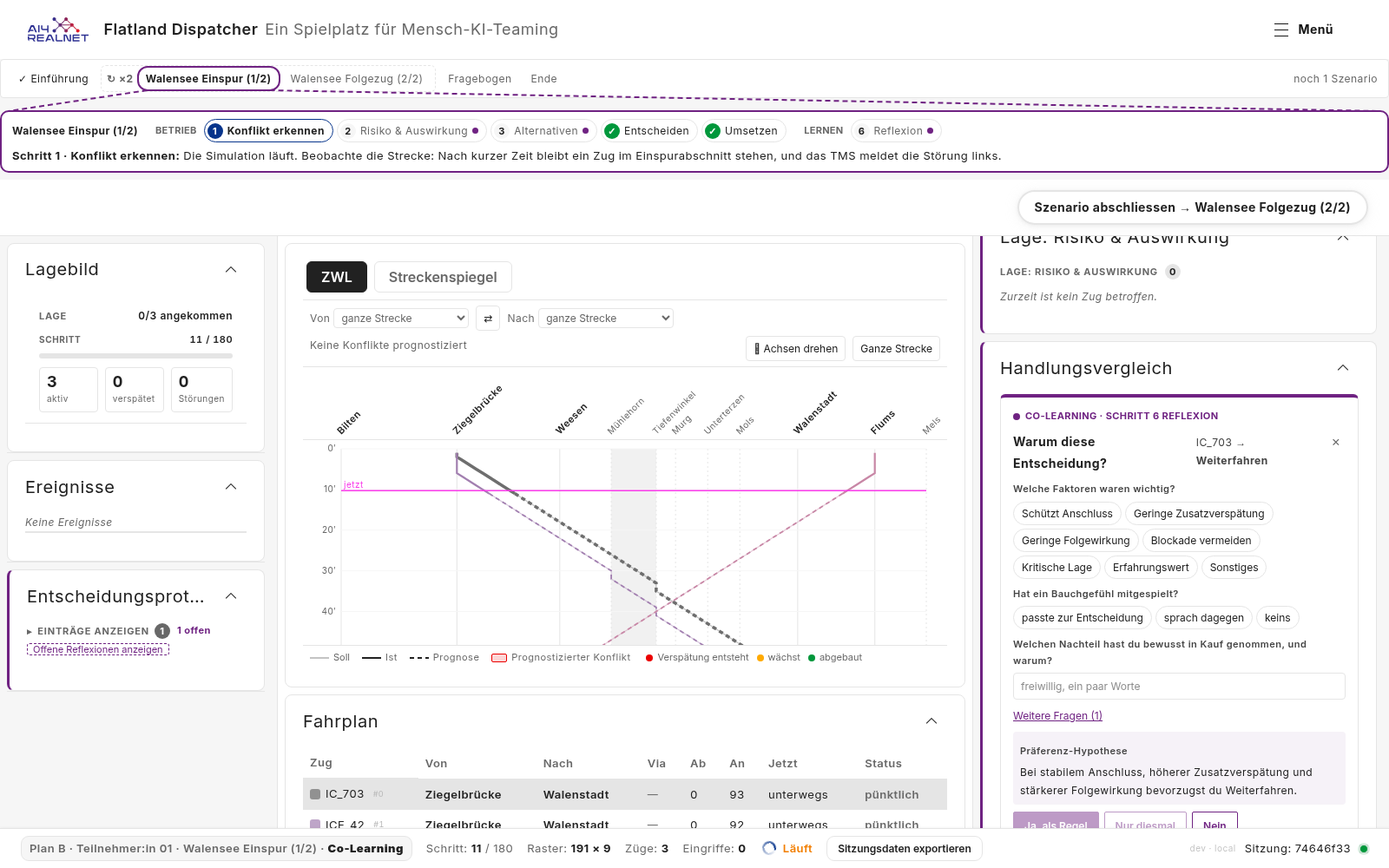
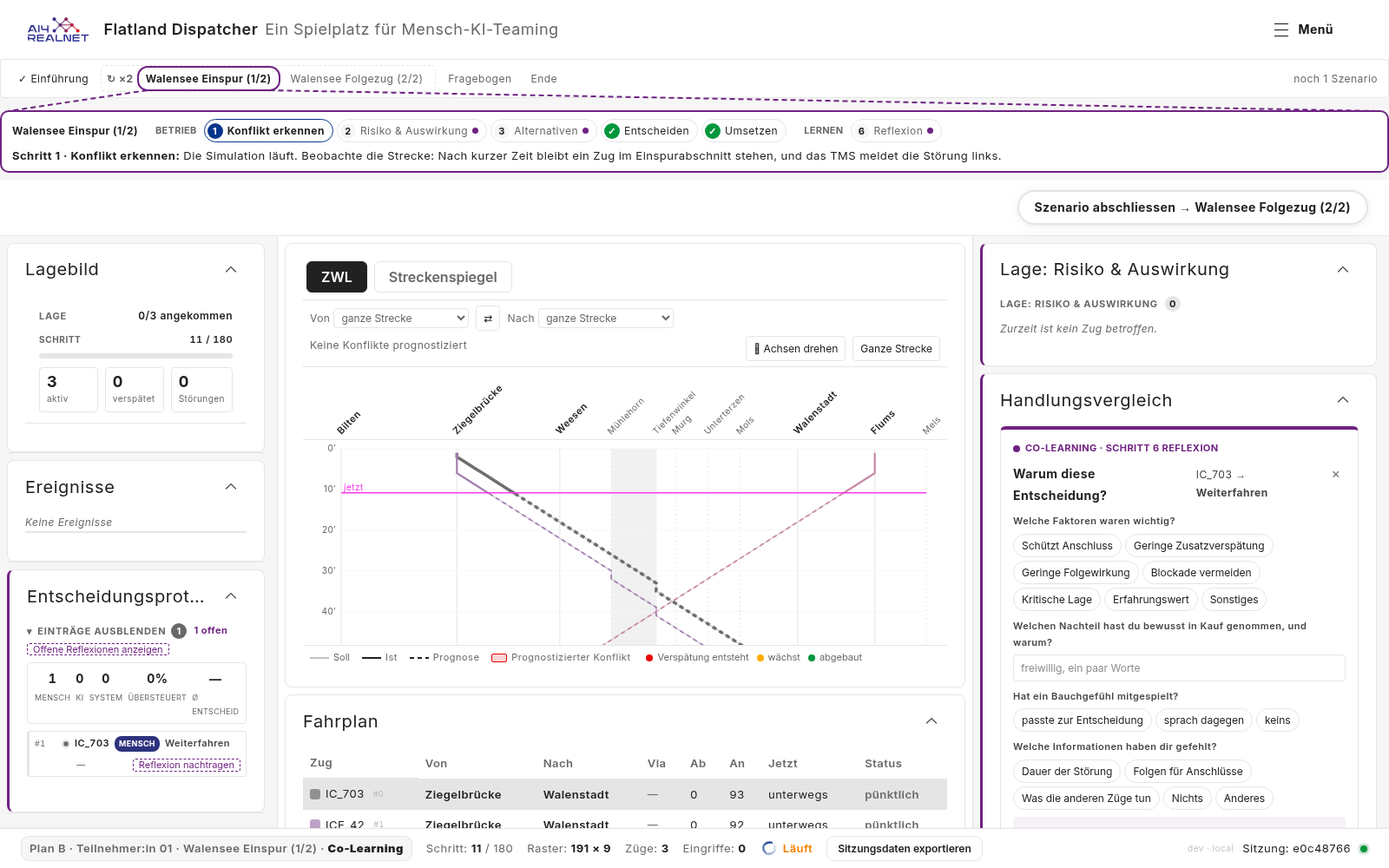
docs(plans): retake the after pictures of #160 and record S14-S20 as built.

diff --git a/docs/plans/reflection-inline.md b/docs/plans/reflection-inline.md
@@ -4,8 +4,8 @@
 > f977f7c, S6 as 1221529; findings 1, 2, 4 and 13-17 are fixed. S8-S11 (findings
 > 21, 12 with 10, 20 and 3) are fixed in 37659fd, d1e8adc, cadade1 and c491fb6; the PR
 > comments 23 and 24 in S12 and S13, b484221 and a16424e (Q12; Q1 revisited:
-> Plan B's log starts open, D4). 5-9, 11, 18 and 22 are planned as S14-S20
-> (§7.1), 19 is a follow-up (§9).
+> Plan B's log starts open, D4); 5-9, 11, 18 and 22 in S14-S20, 1e6151b to
+> ba64e47 (§7.1). 19 is a follow-up (§9).
 > Based on `main` 7eef0cb (rebased on 2026-11-06 from 1e33088,
 > where the before pictures were taken), which has #150 ([PR #172](https://github.com/flatland-association/flatland-ui-hub/pull/172)):
 > its decision log toggle covers what this plan first designed for opening
@@ -54,6 +54,14 @@
 | — | Revise D4 by the PR comment of 2026-11-06 (Q1 revisited) and plan S13 | docs | low | ce89d54 |
 | S12, 23 | The reflection shows all its questions, in every tour that asks for reasons; «Weitere Fragen» goes | fix | medium | b484221 |
 | S13, 24 | Plan B's decision log starts open, as in every other setup already | feat | medium | a16424e |
+| — | Plan S14-S20 for the open code review findings | docs | low | f4b89f7 |
+| S14, 5 | The message after a refused finish counts the missing reflections down as they are answered | bug | medium | 1e6151b |
+| S15, 9 | A new reflection scrolls only its panel, not the whole right column | robustness | low | b7fcacf |
+| S16, 22 | The working screen logs which centre tab is shown, so ZWL and Streckenspiegel differ | robustness | low | c231013 |
+| S17, 7, 11 | One check of open reflections before finishing, a spec for the toolbar's finish gate, and one tour stub for the specs | design | low | 215055b |
+| S18, 6 | A spec that every tour asking for reasons runs a layout with the decision panel | test-coverage | low | c566b8f |
+| S19, 8 | The code names the reopen case that drops typed text | docs | low | 6aed56c |
+| S20, 18 | Code comments point at the plan's sections and decisions, not at the issue or its findings | docs | low | ba64e47 |
 
 S1-S5 and S7 share files and hunks, so they went in as one commit, f977f7c,
 with the message "feat(reflection): ask the reflection in «Handlungsvergleich»
@@ -68,18 +76,10 @@ reflection is shown."
 
 #### Remaining
 
-Open steps first, then open findings (§9), then follow-ups that are not in
-this PR (§1.3).
+No open steps or findings; the follow-ups are not in this PR (§1.3).
 
 | ID | Description | Category | Severity | Commit message |
 |---|---|---|---|---|
-| S14, 5 | The message after a refused finish counts the missing reflections down as they are answered | bug | medium | fix(reflection): count the missing reflections live after a refused finish. |
-| S15, 9 | A new reflection scrolls only its panel, not the whole right column | robustness | low | fix(proposal-compare): scroll only the panel when a reflection appears. |
-| S16, 22 | The working screen logs which centre tab is shown, so ZWL and Streckenspiegel differ | robustness | low | fix(view-tracker): log which centre tab is shown. |
-| S17, 7, 11 | One check of open reflections before finishing, a spec for the toolbar's finish gate, and one tour stub for the specs | design | low | refactor(tour): check open reflections in one place before finishing. |
-| S18, 6 | A spec that every tour asking for reasons runs a layout with the decision panel | test-coverage | low | test(layout): assert that every reasonDialog layout places the decision panel. |
-| S19, 8 | The code names the reopen case that drops typed text | docs | low | docs(reflection): name the reopen case that drops typed text. |
-| S20, 18 | Code comments point at the plan's sections and decisions, not at the issue or its findings | docs | low | docs(reflection): point code comments at the plan's sections, not at the issue or its findings. |
 | — | Follow-up: keep a typed but unsent reflection when switching to another one | feat | low | — |
 | — | Follow-up: require a reason chip for «Nein» too (decided against for now) | feat | low | — |
 | — | Follow-up: show open reflections in a replay | feat | low | — |
@@ -828,22 +828,22 @@ specs cover the first three.
 Each step passes the CI checks on its own. S1-S5 and S7 went in as one
 commit (Carried out). Finding 13's fix is in S3, which removes the pause.
 Findings 21, 12 (with 10), 20 and 3 are fixed in S8-S11, 23 and 24 in S12
-and S13; 5-9, 11, 18 and 22 are planned in §7.1, 19 is a follow-up.
+and S13, 5-9, 11, 18 and 22 in S14-S20 (§7.1); 19 is a follow-up.
 
-### 7.1 Refactorings and cleanup (in progress)
+### 7.1 Refactorings and cleanup ✅
 
 The open code review findings, one commit each; fixes first, then the
 refactoring, then tests and comments.
 
 | Done | ID | Finding | Change | Tests |
 |---|---|---|---|---|
-|  | S14 | 5 | `SessionStore.reflectionsMissing` becomes a `computed`: how many of the reflections open at the refused finish are still open (`_refusedSeqs`). It counts down as they are answered, is 0 once all are, and a decision taken after the refusal does not bring the message back. The effect that zeroed it goes. | Store spec: refused with three open, two answered, the count says 1 (it said 3). The existing refusal and reset specs. |
-|  | S15 | 9 | `ProposalCompareComponent` scrolls the panel body (`.layout-panel-shell__body--scroll`) to the reflection, only when it is out of view, instead of `scrollIntoView`, which moved every scrolling ancestor. The timer is cleared in the effect's cleanup, so it cannot fire after the panel is gone. Outside a panel shell nothing scrolls. | Spec of the exported helper: the panel body scrolls, the column around it does not. |
-|  | S16 | 22 | `SessionStore.centerView`, set by `ViewTabsComponent` from its active tab (`zug-weg-diagramm`, `flatland-map`, …). The working screen `session` gets `detail.centerView` while it is set; `centerTab` stays as it is, since the replay reads it. `docs/experiment-logging.md` lists the field. | View tracker spec: the tab id is logged, and switching tabs writes a new screen entry. The existing specs, which have no tab, are unchanged. |
-|  | S17 | 7, 11 | `TourContextService.refuseFinish()`: in a tour that asks for reasons, refuse while reflections are open. `finishDemoMode()` and the guide's `endShift()` call it; its comment names the ways to end that need no gate (Director's «Schicht beenden», `finishExperiment` after the leg). The specs share `provideTourContextStub(reasonDialog)` in `src/app/testing/`. | App spec: `finishDemoMode()` is refused with an open reflection and goes on once it is answered. The guide, log and decision panel specs on the shared stub. |
-|  | S18 | 6 | New spec: every tour and study condition whose briefing sets `reasonDialog` pins a layout with the decision panel (`proposal-compare`) and does not run Director, so «Reflexion nachtragen» always has a place (§1.2). | The new spec. |
-|  | S19 | 8 | The comments on `openReflections` and `reopenRationale` say that a new decision never replaces the reflection being typed, but reopening another one from the log does, and the prompt then starts empty (§1.1, follow-up in §1.3). No `TODO`: the follow-up has no issue yet. | None (comments only); the existing specs. |
-|  | S20 | 18 | Code comments, specs and the screenshot scripts name the plan's sections and decisions (§4.1, D3, D16) instead of #160 or a finding number, and say in words what changed ("before the reflection moved into the panel"). | None (comments only); the existing specs. |
+| ✅ | S14 | 5 | `SessionStore.reflectionsMissing` becomes a `computed`: how many of the reflections open at the refused finish are still open (`_refusedSeqs`). It counts down as they are answered, is 0 once all are, and a decision taken after the refusal does not bring the message back. The effect that zeroed it goes. | Store spec: refused with three open, two answered, the count says 1 (it said 3). The existing refusal and reset specs. |
+| ✅ | S15 | 9 | `ProposalCompareComponent` scrolls the panel body (`.layout-panel-shell__body--scroll`) to the reflection, only when it is out of view, instead of `scrollIntoView`, which moved every scrolling ancestor. The timer is cleared in the effect's cleanup, so it cannot fire after the panel is gone. Outside a panel shell nothing scrolls. | Spec of the exported helper: the panel body scrolls, the column around it does not. |
+| ✅ | S16 | 22 | `SessionStore.centerView`, set by `ViewTabsComponent` from its active tab (`zug-weg-diagramm`, `flatland-map`, …). The working screen `session` gets `detail.centerView` while it is set; `centerTab` stays as it is, since the replay reads it. `docs/experiment-logging.md` lists the field. | View tracker spec: the tab id is logged, and switching tabs writes a new screen entry. The existing specs, which have no tab, are unchanged. |
+| ✅ | S17 | 7, 11 | `TourContextService.refuseFinish()`: in a tour that asks for reasons, refuse while reflections are open. `finishDemoMode()` and the guide's `endShift()` call it; its comment names the ways to end that need no gate (Director's «Schicht beenden», `finishExperiment` after the leg). The specs share `provideTourContextStub(reasonDialog)` in `src/app/testing/`. | App spec: `finishDemoMode()` is refused with an open reflection and goes on once it is answered. The guide, log and decision panel specs on the shared stub. |
+| ✅ | S18 | 6 | New spec: every tour and study condition whose briefing sets `reasonDialog` pins a layout with the decision panel (`proposal-compare`) and does not run Director, so «Reflexion nachtragen» always has a place (§1.2). | The new spec. |
+| ✅ | S19 | 8 | The comments on `openReflections` and `reopenRationale` say that a new decision never replaces the reflection being typed, but reopening another one from the log does, and the prompt then starts empty (§1.1, follow-up in §1.3). No `TODO`: the follow-up has no issue yet. | None (comments only); the existing specs. |
+| ✅ | S20 | 18 | Code comments, specs and the screenshot scripts name the plan's sections and decisions (§4.1, D3, D16) instead of #160 or a finding number, and say in words what changed ("before the reflection moved into the panel"). | None (comments only); the existing specs. |
 
 ## 8. Open questions
 
@@ -1030,30 +1030,30 @@ not resolved on GitHub yet.
 | ✅ | 2 | code review | bug | high | `frontend/src/app/app.component.ts:1283`, `frontend/src/app/features/tour-debrief/tour-debrief.component.ts:268`: in a tour that is not an experiment run (the interview tour, gated since Q4), the episode ending on its own opens the debrief, which hides the panels (`is-behind`), and its way back is off once `episodeDone`. With a reflection still open, the finish is refused and the reflection can no longer be reached: the tour cannot be finished. Plan B is not affected (no debrief between legs while `running`). Fix: show the open reflection in the debrief, or let the debrief's finish open the shift again while reflections are open. Fixed in f977f7c, option a): `AppComponent.shiftScreenOpen()` stays closed while `reflectionsMissing() > 0`, so a refused finish brings the working screen back; the debrief opens again once all are answered. No spec: `AppComponent` has none for the shift screen (finding 11). | feat(reflection): ask the reflection in «Handlungsvergleich» without pausing the run. |
 | ✅ | 3 | code review | design | medium | `frontend/src/app/core/interaction-log/view-tracker.service.ts:68-70`, `frontend/src/app/core/interaction-log/click-log.service.ts:72`: a reflection that is shown counts as a screen of its own, `reflection`, in every mode and for all three kinds (`rationale`, `co-learning`, `strategy`). Since #160 none of them is an overlay: each sits in a panel while the participant goes on working. The screen log books that time as "reflection" and drops map/Marey switches and guide steps, every click made meanwhile carries `view: 'reflection'`, and the replay misses those switches. Outside the reason tours this was so on `main` too. Proposal: the working screen `session` with `detail.reflection = <kind>`, everywhere (details and tables below). Changes the logs of every condition. Fixed in c491fb6 (S11): `session` with `detail.reflection`; checked with the Plan B recording. | fix(view-tracker): log a shown reflection as part of the working screen. |
 | ✅ | 4 | code review | design | medium | `frontend/src/app/core/session.store.ts:1403`: the queue applies in every session, not only in `reasonDialog` tours. With `rationale-capture` (Recommendation, the Co-Learning reflection panel) a new decision no longer replaces the shown prompt, and closing one shows an older one out of context. The plan says these stay unchanged (§1.3). Fix: keep the old replace-and-forget behaviour unless the tour asks for reasons, e.g. `_askReflection` taking a `queue` flag set by a store signal the app syncs from `tour.reasonDialog()`. Fixed in f977f7c: `SessionStore.queueReflections`, set by `AppComponent` from `tour.reasonDialog()`; off, a new decision replaces the shown one and × drops it, as on `main`. | feat(reflection): ask the reflection in «Handlungsvergleich» without pausing the run. |
+| ✅ | 5 | code review | bug | medium | `frontend/src/app/core/session.store.ts:1379,1389`, `frontend/src/app/features/toolbar/toolbar.component.html:101`: `reflectionsMissing` freezes the count at the refused click, so after answering two of three the message still says 3. It is also stored state with an effect only to zero it. Fix: a `finishRefused` flag and `computed(() => finishRefused() ? openReflections().length : 0)`, no effect. Fixed in 1e6151b (S14): `reflectionsMissing` is a `computed` over the reflections open at the refusal, with a spec. | fix(reflection): count the missing reflections live after a refused finish. |
+| ✅ | 6 | code review | robustness | low | `frontend/src/app/features/proposal-compare/proposal-compare.component.ts:93`: a reflection reopened from the log only shows in the decision panel, and not in Director. After a mode switch, or with the panel collapsed or absent, «Reflexion nachtragen» does nothing visible while finishing is refused. Covered by §1.2's assumptions (Co-Learning only, the panel is in the layout), which are not checked in code. Proposal: keep the assumption, and expand nothing (D10); add a test that the `reasonDialog` layouts place the panel. Fixed in c566b8f (S18): `core/demo/reason-tours.spec.ts` checks every reason tour's layout. | test(layout): assert that every reasonDialog layout places the decision panel. |
+| ✅ | 7 | code review | design | low | `frontend/src/app/app.component.ts:1283`, `frontend/src/app/features/tour-guide/tour-guide.component.ts:77`: the finish guard is repeated in the two callers. Other ways to end a shift (`director-directive`'s «Schicht beenden», `finishExperiment`) do not check it; today they run only in Director or after the leg is finished. Proposal: one `canFinish()` on `TourContextService`, used by both, with a comment naming the paths that need no gate. Fixed in 215055b (S17): `TourContextService.refuseFinish()`, used by both, with a comment on the paths that need no gate. | refactor(tour): check open reflections in one place before finishing. |
+| ✅ | 8 | code review | robustness | low | `frontend/src/app/core/session.store.ts:1356,1369`: `reopenRationale(seq)` replaces a reflection being typed, and the prompt resets, contradicting the comment that typed text is never replaced. Listed in §1.1 as a limitation, without the `TODO` it promises. Fix: add the `TODO` and say "a new decision never replaces" in the comment. Fixed in 6aed56c (S19): the comments on `openReflections` and `reopenRationale` name the case; no `TODO`, as the follow-up in §1.3 has no issue yet. | docs(reflection): name the reopen case that drops typed text. |
+| ✅ | 9 | code review | robustness | low | `frontend/src/app/features/proposal-compare/proposal-compare.component.ts:133`: `scrollIntoView` scrolls every scrolling ancestor, so a new reflection can move the right column (seen in the after screenshots: the panel above loses its title), and the uncleared `setTimeout` can fire after the panel is destroyed. Fix: scroll only the panel's own body, or drop the scroll. Fixed in b7fcacf (S15): `scrollIntoPanel` scrolls the panel body only, and the timer is cleared in the effect's cleanup. | fix(proposal-compare): scroll only the panel when a reflection appears. |
 | ✅ | 10 | code review | refactor | low | `frontend/src/app/features/reflection-prompt/reflection-prompt.component.ts:113,143`, `frontend/src/app/core/session.store.ts:1277`: the logged-label lookup is written twice (prompt and `submitRationale`), and `strategyLabel()` only wraps `label()`. Fix: one store method `strategyLabelFor(pending)` used by both. Fixed in d1e8adc (S9): `SessionStore.rationaleLabel`. | fix(rationale-capture): name the course actually taken. |
+| ✅ | 11 | code review | test-coverage | low | `frontend/src/app/app.component.ts:1283`: the gate in `finishDemoMode()` has no test, and the `TourContextService` stub is repeated in four spec files. Fix: a spec for the gate, and a shared `provideTourContextStub(reasonDialog)` in `src/testing/`. Fixed in 215055b (S17): the app spec covers the gate in `finishDemoMode()`, and the specs share `provideTourContextStub`. | refactor(tour): check open reflections in one place before finishing. |
 | ✅ | 12 | screenshots | bug | medium | `frontend/src/app/features/rationale-capture/rationale-capture.component.ts:73,78`: the short "why?" prompt shows the same wrong label as D8 fixed in the reflection: after «Plan behalten» in the decision panel it says "IC_703 → Reroute" and "you prefer Reroute", because it calls `strategyLabelForAction(p.action, t)` without the logged choice. Seen on 2026-11-06 in `preset-colearning-study3`, a study condition, so participants of that condition read a hypothesis about a course they did not take. On `main` too. Fix: the same lookup as the reflection, best through the one store method of finding 10. Fixed in d1e8adc (S9): one lookup, `SessionStore.rationaleLabel`, for both prompts and the record; checked in the running app. | fix(rationale-capture): name the course actually taken. |
 | ✅ | 13 | review against this plan | docs | low | `frontend/src/app/core/demo/tour-briefings.ts:241,597`: the guide step «Reflexion» still said "Nach deiner Entscheidung hält die Simulation an" (and "the simulation pauses" in English). All eight `reasonDialog` briefings show it (§2), so after #160 the guide contradicts the running clock. Fixed in f977f7c: both hints now say the decision panel asks while the simulation keeps running, and that the decision log shows open reflections, all of which must be answered before finishing. | feat(reflection): ask the reflection in «Handlungsvergleich» without pausing the run. |
 | ✅ | 14 | [PR comment](https://github.com/flatland-association/flatland-ui-hub/pull/176#discussion_r4483074726), resolved | design | medium | `docs/plans/reflection-inline.md:524` (at de9d762): which option for Q2, does «Nein» count as a reflection? @CleverManu: a), leave it as it is; the module will be rephrased, and «Nein» may go. Fixed in de9d762: recorded as Q2 a and D12. | docs(plans): record the decisions on Q2, Q3 and Q4 for #160. |
 | ✅ | 15 | [PR comment](https://github.com/flatland-association/flatland-ui-hub/pull/176#discussion_r4483076853), resolved | design | medium | `docs/plans/reflection-inline.md:533` (at de9d762): which option for Q4, does the interview tour refuse to finish too? @CleverManu: a). Fixed in de9d762: recorded as Q4 a and D13. | docs(plans): record the decisions on Q2, Q3 and Q4 for #160. |
 | ✅ | 16 | [PR comment](https://github.com/flatland-association/flatland-ui-hub/pull/176#discussion_r4485910809), resolved | design | medium | `docs/plans/reflection-inline.md:260` (at de9d762): D6, finishing with open reflections is refused; @CleverManu agreed. Fixed in f977f7c: built as decided (§4.4). | feat(reflection): ask the reflection in «Handlungsvergleich» without pausing the run. |
 | ✅ | 17 | [PR comment](https://github.com/flatland-association/flatland-ui-hub/pull/176#discussion_r4485915765), resolved | design | medium | `docs/plans/reflection-inline.md:261` (at de9d762): D7, `reflectedAt` and `reflectedAtStep` stamped on the decision; @CleverManu agreed. Fixed in f977f7c: built as decided (§4.1). | feat(reflection): ask the reflection in «Handlungsvergleich» without pausing the run. |
+| ✅ | 18 | code review | docs | low | `frontend/src/app/app.component.ts:462,1207-1208,1216`, `frontend/src/app/core/demo/tour-briefings.ts:120`, `frontend/src/app/core/i18n/panel-titles.ts:51`, `frontend/src/app/core/operator-model-bridge.service.ts:51`, `frontend/src/app/core/operator-model-bridge.service.spec.ts:12-14,64`, `frontend/src/app/core/session.store.ts:893,1354-1355,1369,1376`, `frontend/src/app/core/session.store.spec.ts:137`, `scripts/docshots-reflection-inline.mjs:1,6`: comments name issue #160, which the PR closes, and the plan's finding numbers ("finding 1", "finding 4"). Once merged they point at a closed issue and at table rows that are not a stable reference. Fix: name the plan's sections and decisions (§4.1, D3, §4.7) instead, and say what happened before in words ("as before the reflection moved into the panel"). Fixed in ba64e47 (S20): no comment names #160 or a finding number any more. Before: at a4b1d09 the S8-S11 commits added more of them, now also at `app.component.ts:1229-1230,1263`, `session.store.ts:1364-1365,1379,1386`, `session.store.spec.ts:146` and `scripts/docshots-reflection-hosts.mjs:1`. | docs(reflection): point code comments at the plan's sections, not at the issue or its findings. |
 | ✅ | 20 | code review | robustness | medium | `frontend/src/app/core/session.store.ts:2209`, `frontend/src/app/core/layout/layout-presets.ts` (`preset-recommendation-study3`, `preset-olten-zug-weg`, `preset-zug-weg-corridor`): in Recommendation a human override with an AI suggestion asks a "why?", but these layouts (and the `recommendations-classic` variant) have no place to show it. The participant never sees it, the screen log says "reflection" until the next decision replaces it (finding 3), and the decision gets no reason. Affects the study condition "Recommendation · User Study 3" and the two Zug-Weg tours. From the code, not checked in the browser. On `main` too. Fixed in cadade1 (S10): `AppComponent.reflectionPlaceInLayout` sets `SessionStore.reflectionPlaceInLayout`; specs for the system layout, presets with and without a place, and Plan B. | fix(reflection): ask a reflection only where a place can show it. |
 | ✅ | 21 | code review | bug | medium | `frontend/src/app/features/rationale-capture/rationale-capture.component.ts:61-63,124-130`: the short "why?" keeps its chips and note until it is answered or closed. Outside reason tours a newer decision replaces the shown one (finding 4), so the reasons picked for the first decision are still selected for the second and are saved with it. `ReflectionPromptComponent` starts empty for a new decision (`reflection-prompt.component.ts:128`). On `main` too. Fix: the same reset when `decisionSeq` changes, with a spec. Fixed in 37659fd (S8): the same reset when `decisionSeq` changes, with a spec. | fix(rationale-capture): start empty for a new decision. |
+| ✅ | 22 | Q11 recording | robustness | low | `frontend/src/app/core/interaction-log/view-tracker.service.ts:89`: the working screen's `centerTab` is `marey`, `map` or `other`, and Plan B's two tabs, ZWL and Streckenspiegel, both log `map` (recorded 2026-11-06: `centerTab: map` while ZWL was shown). So the screen log cannot say which of the two a participant looked at; the click stream has the tab clicks (`views.zugWeg`, `views.map`). On `main` too. Fix: log the selected tab id. Fixed in c231013 (S16): the working screen logs `detail.centerView`; `centerTab` stays for the replay. | fix(view-tracker): log which centre tab is shown. |
 | ✅ | 23 | [PR comment](https://github.com/flatland-association/flatland-ui-hub/pull/176#issuecomment-6694219338), resolved | design | medium | `frontend/src/app/features/reflection-prompt/reflection-prompt.component.ts:102`, `reflection-prompt.component.html:55-57`: the reflection shows the suggested questions and hides the rest behind «Weitere Fragen (1)» (`showMore` starts `false` and is reset for each decision, `:188`). @CleverManu: it should be expanded; collapsed, the question is not visible and will be overlooked. Fixed in b484221 (S12, Q12 a, D18): all three questions show, in every reason tour. | fix(reflection-prompt): show all questions of a reflection without «Weitere Fragen». |
 | ✅ | 24 | [PR comment](https://github.com/flatland-association/flatland-ui-hub/pull/176#issuecomment-6694427791), resolved | design | medium | `frontend/src/app/core/layout/layout-presets.ts:709`: under Plan B the decision log starts collapsed (`collapsedByDefault: ['widget.decision-log']`, from #150), so its entries are hidden behind «Einträge anzeigen». @CleverManu: now that the entries matter for the reflection, they should be shown by default. This reverses D4 (Q1, decided 2026-11-05: collapsed by default). Fixed in a16424e (S13, D4, revised by this comment): Plan B's log starts open. | feat(layout): show the decision log's entries by default under Plan B. |
-|  | 5 | code review | bug | medium | `frontend/src/app/core/session.store.ts:1379,1389`, `frontend/src/app/features/toolbar/toolbar.component.html:101`: `reflectionsMissing` freezes the count at the refused click, so after answering two of three the message still says 3. It is also stored state with an effect only to zero it. Fix: a `finishRefused` flag and `computed(() => finishRefused() ? openReflections().length : 0)`, no effect. Open: planned in S14. | fix(reflection): count the missing reflections live after a refused finish. |
-|  | 6 | code review | robustness | low | `frontend/src/app/features/proposal-compare/proposal-compare.component.ts:93`: a reflection reopened from the log only shows in the decision panel, and not in Director. After a mode switch, or with the panel collapsed or absent, «Reflexion nachtragen» does nothing visible while finishing is refused. Covered by §1.2's assumptions (Co-Learning only, the panel is in the layout), which are not checked in code. Proposal: keep the assumption, and expand nothing (D10); add a test that the `reasonDialog` layouts place the panel. Open: planned in S18. | test(layout): assert that every reasonDialog layout places the decision panel. |
-|  | 7 | code review | design | low | `frontend/src/app/app.component.ts:1283`, `frontend/src/app/features/tour-guide/tour-guide.component.ts:77`: the finish guard is repeated in the two callers. Other ways to end a shift (`director-directive`'s «Schicht beenden», `finishExperiment`) do not check it; today they run only in Director or after the leg is finished. Proposal: one `canFinish()` on `TourContextService`, used by both, with a comment naming the paths that need no gate. Open: planned in S17. | refactor(tour): check open reflections in one place before finishing. |
-|  | 8 | code review | robustness | low | `frontend/src/app/core/session.store.ts:1356,1369`: `reopenRationale(seq)` replaces a reflection being typed, and the prompt resets, contradicting the comment that typed text is never replaced. Listed in §1.1 as a limitation, without the `TODO` it promises. Fix: add the `TODO` and say "a new decision never replaces" in the comment. Open: planned in S19. | docs(reflection): name the reopen case that drops typed text. |
-|  | 9 | code review | robustness | low | `frontend/src/app/features/proposal-compare/proposal-compare.component.ts:133`: `scrollIntoView` scrolls every scrolling ancestor, so a new reflection can move the right column (seen in the after screenshots: the panel above loses its title), and the uncleared `setTimeout` can fire after the panel is destroyed. Fix: scroll only the panel's own body, or drop the scroll. Open: planned in S15. | fix(proposal-compare): scroll only the panel when a reflection appears. |
-|  | 11 | code review | test-coverage | low | `frontend/src/app/app.component.ts:1283`: the gate in `finishDemoMode()` has no test, and the `TourContextService` stub is repeated in four spec files. Fix: a spec for the gate, and a shared `provideTourContextStub(reasonDialog)` in `src/testing/`. Open: planned in S17. | test(app): cover the finish gate and share the tour context stub. |
-|  | 18 | code review | docs | low | `frontend/src/app/app.component.ts:462,1207-1208,1216`, `frontend/src/app/core/demo/tour-briefings.ts:120`, `frontend/src/app/core/i18n/panel-titles.ts:51`, `frontend/src/app/core/operator-model-bridge.service.ts:51`, `frontend/src/app/core/operator-model-bridge.service.spec.ts:12-14,64`, `frontend/src/app/core/session.store.ts:893,1354-1355,1369,1376`, `frontend/src/app/core/session.store.spec.ts:137`, `scripts/docshots-reflection-inline.mjs:1,6`: comments name issue #160, which the PR closes, and the plan's finding numbers ("finding 1", "finding 4"). Once merged they point at a closed issue and at table rows that are not a stable reference. Fix: name the plan's sections and decisions (§4.1, D3, §4.7) instead, and say what happened before in words ("as before the reflection moved into the panel"). Open: planned in S20. At a4b1d09 the S8-S11 commits added more of them, now also at `app.component.ts:1229-1230,1263`, `session.store.ts:1364-1365,1379,1386`, `session.store.spec.ts:146` and `scripts/docshots-reflection-hosts.mjs:1`. | docs(reflection): point code comments at the plan's sections, not at the issue or its findings. |
-|  | 22 | Q11 recording | robustness | low | `frontend/src/app/core/interaction-log/view-tracker.service.ts:89`: the working screen's `centerTab` is `marey`, `map` or `other`, and Plan B's two tabs, ZWL and Streckenspiegel, both log `map` (recorded 2026-11-06: `centerTab: map` while ZWL was shown). So the screen log cannot say which of the two a participant looked at; the click stream has the tab clicks (`views.zugWeg`, `views.map`). On `main` too. Fix: log the selected tab id. Open: planned in S16. | fix(view-tracker): log which centre tab is shown. |
 | ⏭ | 19 | code review | design | low | `frontend/src/app/features/reflection-prompt/reflection-prompt.component.ts:94`, `frontend/src/app/features/rationale-capture/rationale-capture.component.ts:66`, `frontend/src/app/features/co-learning-reflection/co-learning-reflection.component.ts:73`, `frontend/src/app/features/proposal-compare/proposal-compare.component.ts:93`: every place that can show a "why?" shows it as soon as `pendingRationale` is set; nothing decides which one. In a layout no preset ships (the catalog panel `reflection-prompt` next to «Handlungsvergleich» in a reason tour, the recommendations panel next to the Co-Learning reflection panel) the same reflection shows twice, with different questions. The Co-Learning reflection panel also opens itself for a reflection another panel shows. On `main` the same, and #160 does not worsen it in any shipped setup (reason tours pin layouts with the decision panel only). "One place per mode" is an existing intent (`PANEL_MODE_AVAILABILITY`), enforced only by the system layout; the saved-layout gap is documented in `docs/plans/mode-scoped-layouts-plan.md` §1. Taken over by a follow-up (§1.3): no order in this PR, the study designer chooses the panels (Q10, D15). | fix(reflection): show a reflection in one place only. |
 
 **Issue references.** The PR closes #160 ("Closes #160" in its description).
-Code comments still name it in 13 places, and name the plan's findings in 10
-(finding 18, counted at a4b1d09).
+No code comment names it or a finding number any more (finding 18, fixed in
+ba64e47; checked at ba64e47 in the `main..HEAD` diff).
 
 ### Finding 1
 
